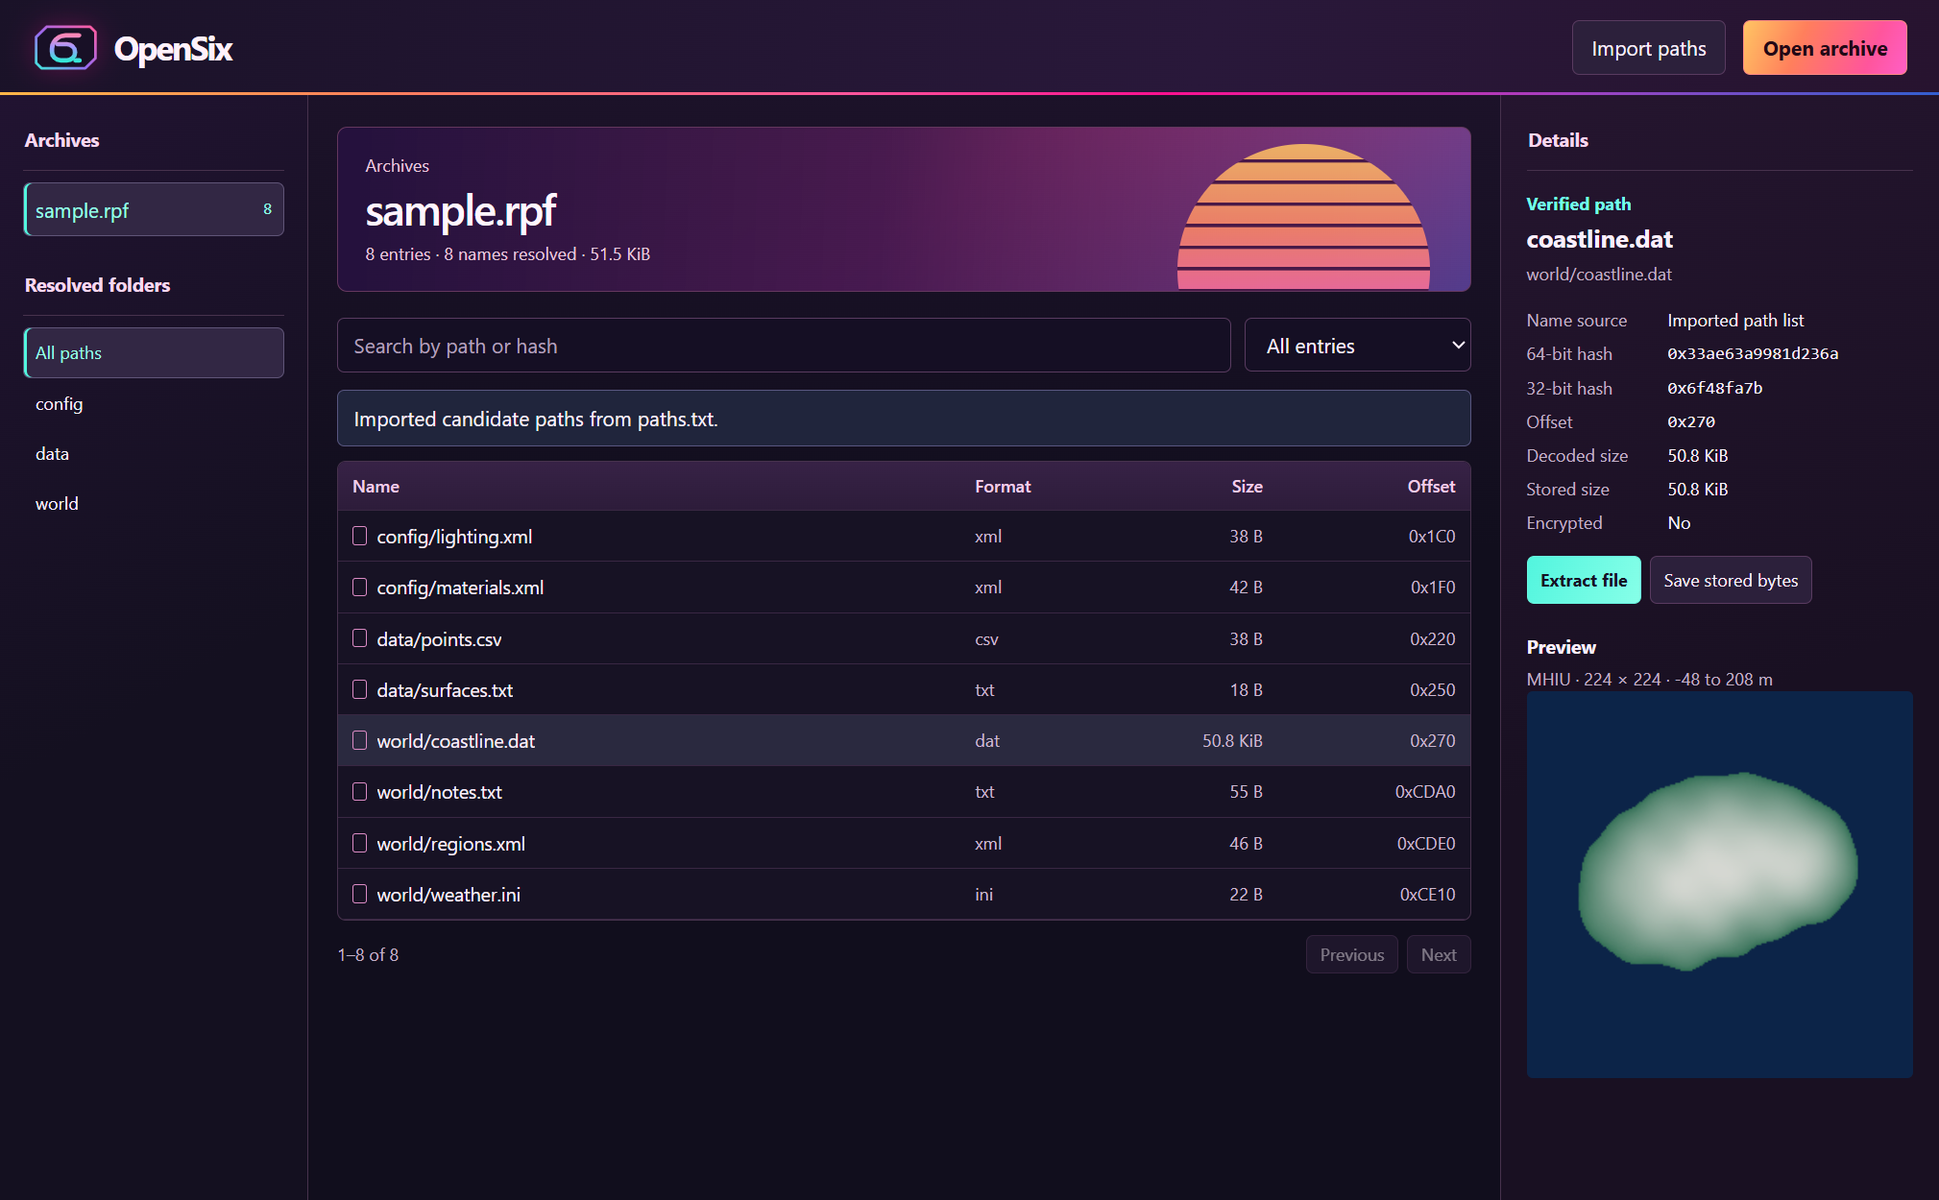
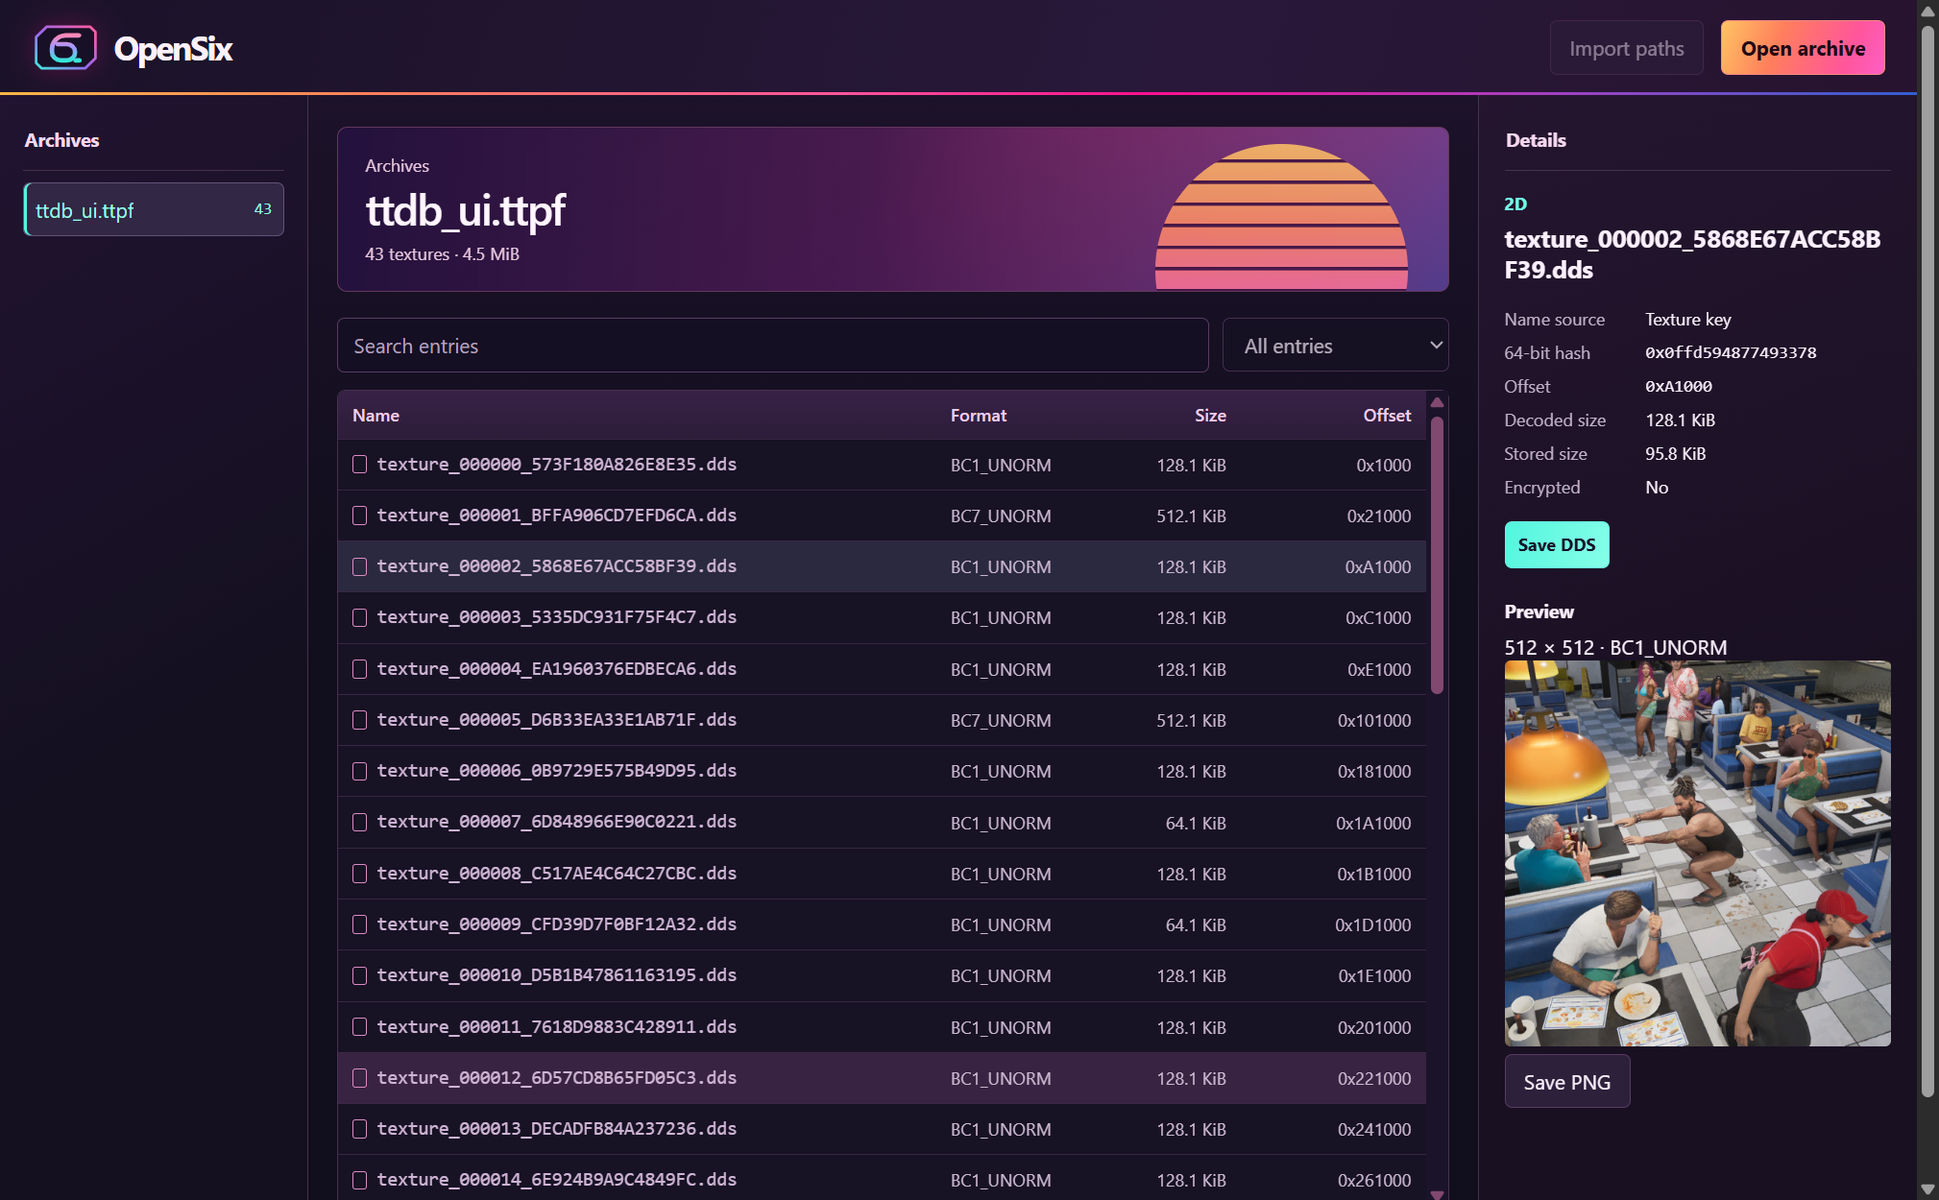
Document the OpenSix 1.0.0 portable release

diff --git a/README.md b/README.md
@@ -1,51 +1,47 @@
 <h1><img src="app/icon.svg" alt="" width="66" align="middle"> OpenSix</h1>
 
-OpenSix is a Windows desktop utility for browsing and extracting RPF9 archives from a supported Grand Theft Auto VI Scarlett development build. Open an archive, follow its nested archives, and inspect entries without launching the game. OpenSix opens archive files read-only.
+OpenSix is a portable Windows archive browser for GTA VI’s Scarlett build. Open an RPF9, follow its nested archives, and preview or extract assets without launching the game. OpenSix reads your files in place.
 
-![OpenSix showing the contents of a sample RPF9 archive and a heightmap preview](docs/images/archive-browser.png)
+**[Download OpenSix.exe for Windows x64](https://github.com/cyberpulse2077/OpenSix/releases/latest/download/OpenSix.exe)** · [How to use it](docs/usage.md) · [Supported formats](docs/compatibility.md)
 
-*Archive browser and heightmap viewer with a synthetic RPF9 sample.*
+![OpenSix decoding a diner scene from GTA VI’s UI texture pool](docs/images/archive-browser.png)
 
-## Archive browser
+## What it does
 
-- Open one RPF9 archive or scan a local folder for archives. Navigate into nested archives directly from the file list.
-- Search entries by path or hash. OpenSix looks for filenames in local files and accepts a plain-text path list. Entries without a verified name stay accessible by hash.
-- Extract a decoded file or save its stored bytes for inspection.
-- Preview supported drawable models, fragments, and drawable dictionaries in 3D, with GLB export. Browse supported texture dictionaries and export PNGs.
-- Play supported Opus and PCM audio bank streams and export tracks. Inspect text, hex, common image formats, and supported heightmaps alongside the archive directory.
-
-## Compatibility
-
-| Component | Current support |
-| --- | --- |
-| OpenSix | Windows x64 |
-| Game build | One known GTA VI build for Xbox Series X\|S (Scarlett). OpenSix checks the executable's SHA-256 before opening an archive. |
-| Archives | RPF9 and supported nested RPF9 entries. Archive replacement and repacking are unavailable. |
-| Models | Supported `.zdr` drawables, `.zft` fragments, and `.zdd` drawable dictionaries. Geometry and material coverage varies by asset. |
-| Textures | Supported `.ztd` texture dictionaries and mip levels. |
-| Audio | Recognized ADAT banks. Opus and PCM playback for supported streams. XMA2 export is available for supported streams. |
-
-Other builds, archive revisions, and resource variants require separate verification. Incomplete archives may fail to open. Any path names OpenSix cannot verify stay listed by hash. See the [compatibility notes](docs/compatibility.md) for the executable fingerprint and preview limits.
+- **Browse RPF9 archives.** Open a file or scan a folder, drill into nested archives, and see entry sizes, offsets, hashes, compression, and encryption details. OpenSix checks signed headers and rejects incomplete archives.
+- **Find entries by name, hash, or model label.** Import a text list of paths to resolve more names. Embedded model labels are searchable, and entries with an unresolved path are still available by hash.
+- **Extract files.** Save decoded data when the storage format is supported, or save the original stored bytes. Search and batch-extract from the command line with stable entry IDs and JSON Lines reports.
+- **Inspect models in 3D.** Orbit supported drawables, choose a dictionary member or fragment child, switch detail levels, and check which textures a material uses. Export GLB or binary FBX with the textures OpenSix can resolve. A textured GTA VI FBX has been checked in Blender with its geometry, UVs, and base-color texture intact.
+- **Inspect collision and animation.** View supported collision bounds in 3D and export them as GLB or FBX. Browse clip dictionaries and play, pause, or scrub a supported clip on a compatible rig.
+- **Assemble model parts.** Preview selected components together. Use a vehicle’s wheel bones to place wheel parts with front and rear scales, or resolve supported wardrobe kits from their catalog and open the corresponding drawables.
+- **Browse textures.** Preview texture dictionaries and open TTPF pools directly. Search texture keys, select mip levels and supported array slices, cube faces, or volume slices, save PNG previews, and export DDS mip chains. The built-in VIctory decoder extends BCPack coverage when its table file is available.
+- **Play audio and video.** Preview supported ADAT Opus and PCM streams, save music stems, and export XMA2 tracks. With FFmpeg, XMA2 can also play in the app. With the Bink player helper, play, pause, step through, or seek in supported Bink movies.
+- **Read resource metadata.** Inspect 0DRP structures and PSIN sections, save their reports as JSON, and preview text, hex, common images, WAV and Ogg audio, and supported MHIU heightmaps.
 
 ## Getting started
 
-This is a source release. Build OpenSix on Windows using the [build instructions](docs/build.md). Bring your own local archive and compatible executable files.
+1. Run `OpenSix.exe`. It opens as a desktop app and needs no installer.
+2. Select **Open archive** and choose the matching local Scarlett executable, then choose an RPF9 file or a folder. Use **Open texture pool** for a standalone TTPF.
+3. Select an entry to preview it, extract it, or open its nested archive.
 
-1. Start the desktop app and select **Open archive**.
-2. Browse to the matching Scarlett executable, then choose an RPF9 file or a folder of archives.
-3. Select an entry to inspect its metadata and preview. Use **Open nested archive** when the entry contains an archive.
-4. Choose **Extract file** to save decoded data. Choose **Save stored bytes** to keep the archive representation.
+Bring your own game files. OpenSix includes the VIctory decoder. To enable it for more textures, place its table file next to the EXE. The [usage guide](docs/usage.md) has the download link and explains how to add optional Bink and XMA2 playback.
 
-To match additional names, use **Import paths** with one candidate path per line. OpenSix checks candidates against the available archive hashes before displaying a resolved path.
+## Inside the texture viewer
 
-## Development
+The diner scene above and the “What the fuck is quinoa” image below are 512 × 512 textures decoded from GTA VI’s `ttdb_ui.ttpf` pool.
 
-See [Build OpenSix](docs/build.md) for the pinned decoder and Windows toolchain. [Contributing](CONTRIBUTING.md) describes what to include in a format or compatibility report.
+![OpenSix showing the “What the fuck is quinoa” texture decoded from GTA VI](docs/images/quinoa-preview.png)
 
-The native preview worker uses [SixNG](https://github.com/holdmysocks/SixNG). The desktop app uses [Electron](https://www.electronjs.org/) and [Three.js](https://threejs.org/). The archive workflow takes its cues from [OpenIV](https://openiv.com/).
+## Compatibility
 
-## Licensing
+OpenSix supports one GTA VI Xbox Series X|S (Scarlett) build. The [compatibility notes](docs/compatibility.md) give the executable fingerprint, supported formats, and known limits. Archives are read-only. Some names, models, materials, and storage formats are still unresolved.
 
-The [OpenSix Noncommercial License](LICENSE) allows you to build and use OpenSix as supplied for free for noncommercial purposes. Commercial use, modification, and paid redistribution require permission. SixNG and changes to it remain under [GPL-3.0-only](third_party/sixng/COPYING).
+## Source and credits
+
+See the [Windows build instructions](docs/build.md) and [contribution notes](CONTRIBUTING.md). The native tools use [SixNG](https://github.com/holdmysocks/SixNG), [rpf9-explorer](https://github.com/breadbbbb/rpf9-explorer), [VIctory](https://github.com/Marvisak/VIctory), and [Assimp](https://github.com/assimp/assimp). The app uses [Electron](https://www.electronjs.org/) and [Three.js](https://threejs.org/). The archive workflow takes its cues from [OpenIV](https://openiv.com/).
+
+## License
+
+I make the original OpenSix desktop app available for free noncommercial use under the [OpenSix Noncommercial License](LICENSE). Contact me for uses that need permission under those terms. The release includes the corresponding source for the GPLv3 preview and texture-pool components. See [component licenses](docs/build.md#component-licenses).
 
 OpenSix is an independent project. Grand Theft Auto and Rockstar Games are marks of their respective owners.

diff --git a/docs/compatibility.md b/docs/compatibility.md
@@ -1,24 +1,34 @@
 # Compatibility
 
-## Executable
+## Game build
 
-The current RPF9 reader expects one GTA VI Scarlett build. OpenSix checks the executable's file size and SHA-256 before reading its format tables. It reads the executable as data.
+OpenSix runs on Windows x64. Its RPF9 reader expects one GTA VI Scarlett build and checks the supplied executable before reading its format tables.
 
 | Property | Expected value |
 | --- | --- |
 | Size | 120,181,760 bytes |
[1 lines of base64/hex data omitted]
 
-To check a local copy in PowerShell, run `Get-FileHash -Algorithm SHA256 -LiteralPath '<path to executable>'`. Use the executable that belongs with the archives you are opening.
+Check a local copy with `Get-FileHash -Algorithm SHA256 -LiteralPath '<path to executable>'`. Use the executable that belongs with the archives.
 
-## Archive and preview limits
+## Formats
 
-- Archive mounting checks the directory, entry bounds, expected minimum size for known archives, and allocated ranges when Windows reports them. A directory with missing payload bytes is insufficient.
-- Filename matching uses available local path references and user-supplied candidates. The original name of every entry may not be recoverable. Hashes remain visible in the entry details and are searchable in the file list.
-- The 3D viewer handles supported drawable resource variants, including supported LODs and some dictionary members. Material and texture coverage varies. Some drawable variants fail to produce renderable geometry.
-- Supported `.zbn` collision bounds can be viewed in 3D and exported to GLB. `.zbd` variants still need sample coverage.
-- Model previews can be exported as GLB or binary FBX. FBX embeds textures available in the preview and uses FBX material properties.
-- Texture dictionaries expose supported textures and mip levels. Some descriptors and encodings cannot be decoded.
-- Supported Opus and PCM streams play in the app. XMA2 has raw track export. Audio support varies by bank layout and codec.
-- Some entries can only be saved as stored bytes when their compression or cipher is unsupported.
-- The screenshot uses a generated RPF9 archive with synthetic data.
+| Resource | What you can do |
+| --- | --- |
+| RPF9 | Open complete archives and directly stored nested archives, verify supported signed headers, extract decoded data, or save stored bytes. |
+| `.zdr`, `.zft`, `.zdd` | View supported models, fragment children, dictionary members, materials, and detail levels. Export GLB or binary FBX. |
+| `.zbn`, `.zbd` | Preview supported collision bounds and export the geometry. Coverage varies by bounds type. |
+| `.zcd` | Inspect clip dictionaries, save JSON, and play supported clips on a compatible rig. |
+| `.ztd`, `.ttpf` | Browse textures and mips, save PNG, and export DDS from supported TTPF layouts. VIctory provides additional BC5, BC6H, and BC7 coverage with its table file. |
+| ADAT banks | Play and export supported Opus and PCM streams and music stems. Export XMA2 tracks or play them with FFmpeg. |
+| Bink / Bink 2 | Play and seek in supported movies with the local helper. |
+| 0DRP v122 and PSIN | Inspect structure and section information and save JSON reports. |
+| MHIU, PNG, JPEG, GIF, WebP, WAV, Ogg | Preview supported heightmaps, images, and audio inside an archive. |
+
+## Known limits
+
+- OpenSix reads archives in place. Archive editing, replacement, and repacking are outside the current feature set.
+- Paths are verified against the archive hashes. Two names in the local `common.rpf` audit, slots 243 and 316, remain unresolved. Their heightmap payloads can still be previewed and extracted.
+- Texture and material coverage varies by asset. Some variants have no renderable preview, and some TTPF layouts expose a reduced mip chain.
+- Model assembly uses the parts and texture sources you open. Wheel placement and wardrobe albedo and normal overrides are supported where the data can be resolved. Wardrobe palettes and some authored materials still need more coverage.
+- Supported XMA2 and Bink playback need their local helpers. The [usage guide](usage.md) lists the files and where to put them.

diff --git a/docs/usage.md b/docs/usage.md
@@ -1,0 +1,44 @@
+# Using OpenSix
+
+Download [OpenSix.exe](https://github.com/cyberpulse2077/OpenSix/releases/latest/download/OpenSix.exe) and run it on Windows x64. Choose the executable and archive from the supported Scarlett build. OpenSix reads the executable to get the archive format tables, and the game stays closed.
+
+## Archives and filenames
+
+**Open archive** takes an RPF9 file or a local folder. Select an archive in the sidebar, then select an entry to see its size, offset, hashes, and available preview. Use **Open nested archive** to go deeper. OpenSix rejects incomplete archives.
+
+Use **Import paths** with one candidate path per line. A matching path appears as a verified name. Use **Index model labels** to make the drawable names stored inside models searchable. A model label can describe the asset even when its original archive path is unknown.
+
+**Extract file** saves decoded data. **Save stored bytes** keeps the entry as it was stored in the archive.
+
+## Models and animation
+
+Open a drawable, fragment, or dictionary, then choose a drawable and detail level when the asset offers them. Drag to orbit and scroll to zoom. **Material and texture sources** shows the resolved texture references and any gaps. Save GLB or FBX from the preview.
+
+For animation, open a clip dictionary and select **Use clip on a model**. Open a model with compatible bones and use the playback controls to inspect the motion. The preview reports how many bone tracks it mapped.
+
+To combine parts, add each model in **Model assembly** and choose **Preview assembly**. For wheels, add the vehicle body first. Enter front and rear scales and add each wheel component. Open a supported wardrobe catalog and choose **Assemble wardrobe kit** when its drawable archives are open. The kit’s JSON report includes its texture and palette references.
+
+## TTPF texture pools
+
+Select **Open texture pool** and choose a complete `.ttpf` file. Search by key, format, or name. Choose a mip and, for supported layouts, an array slice, cube face, or volume slice. **Save DDS** keeps the chain starting at the first available source mip. When you preview a lower mip, **Save DDS from mip** exports the chain starting there. A PNG export saves the displayed image.
+
+![OpenSix decoding a car wash image from the GTA VI UI texture pool](images/car-wash-preview.png)
+
+The portable EXE includes VIctory’s BCPack decoder. To use it on more textures, [download the matching table file](https://github.com/Marvisak/VIctory/raw/d2a4bae1f49533ef5cb512fd1b1ba1513f2e1989/crates/victory-formats/src/bcpack-tables.bin), save it as `bcpack-tables.bin` beside `OpenSix.exe`, and open the pool as usual. OpenSix picks up the file automatically. When a source mip is unavailable, OpenSix can preview a lower mip it can verify.
+
+## Audio and video
+
+Select a track in a supported audio bank to listen or save it. Opus, PCM, and music stems play in the app. XMA2 can be saved as a track. For XMA2 playback, make [FFmpeg](https://ffmpeg.org/) available on `PATH` or set `OPENSIX_FFMPEG` to its absolute path.
+
+For supported Bink movies, use the `Tools/bink-player.exe` from the [rpf9-explorer v1.3 release](https://github.com/breadbbbb/rpf9-explorer/releases/tag/v1.3). Place it beside OpenSix.exe or set `OPENSIX_BINK_PLAYER` to its absolute path. OpenSix checks that it has the expected helper before starting playback.
+
+## Batch workflows
+
+Use `--report` with a new local file to get JSON Lines from the portable executable. Search gives you the entry ID to use for an export. `--recursive` includes nested archives, `--labels` indexes embedded model labels, and `--names` imports a path list. Leave out `--exe` for a TTPF.
+
+```powershell
+.\OpenSix.exe --cli search 'C:\Game\data.rpf' --exe 'C:\Game\game_scarlett_master.exe' --recursive --query zft --report 'C:\Exports\search.jsonl'
+.\OpenSix.exe --cli export 'C:\Game\data.rpf' --exe 'C:\Game\game_scarlett_master.exe' --recursive --id '<entry-id>' --out 'C:\Exports\Models' --report 'C:\Exports\export.jsonl'
+```
+
+Add `--stored` to export the stored representation of an archive entry. Pass `--id` more than once to extract a batch.

diff --git a/docs/build.md b/docs/build.md
@@ -25,14 +25,18 @@ The build checks out the pinned SixNG revision under `.deps/sixng`, applies the 
 
 The texture-pool worker uses the pinned rpf9-explorer checkout under `.deps/rpf9-explorer`. The build publishes it as a self-contained Windows executable.
 
-The BCPack fallback builds the GPLv3 decoder from the pinned VIctory checkout at `d2a4bae1f49533ef5cb512fd1b1ba1513f2e1989`. OpenSix checks the revision's BCPack table file before using it. Source runs read the file from the checkout. Portable runs can read it alongside `OpenSix.exe` or from the absolute path in `OPENSIX_BCPACK_TABLES`. The upstream project's asset policy identifies the table file as outside its code license, so the build includes the decoder and its license and loads the table separately.
+The texture-pool worker loads a BCPack library built from VIctory revision `d2a4bae1f49533ef5cb512fd1b1ba1513f2e1989`. The portable EXE includes this library and opens it automatically. A source checkout can supply the verified BCPack table file. A portable build reads the table file from beside `OpenSix.exe` or from the absolute path in `OPENSIX_BCPACK_TABLES`. The table file has its own terms. See [VIctory's asset policy](https://github.com/Marvisak/VIctory/blob/d2a4bae1f49533ef5cb512fd1b1ba1513f2e1989/docs/asset-policy.md).
 
 Use `node app/cli.mjs --help` for JSON Lines archive search and batch extraction from a source checkout.
 Use `OpenSix.exe --cli search` with `--report` and an absolute path to a new output file when running from the portable launcher.
 
 To play XMA2 streams, make FFmpeg available on `PATH` or set `OPENSIX_FFMPEG` to its absolute path. To preview Bink movies, place `Tools/bink-player.exe` from rpf9-explorer v1.3 next to the portable OpenSix executable or set `OPENSIX_BINK_PLAYER` to its absolute path. OpenSix verifies the helper's SHA-256. Bink preview frames are streamed through memory.
 
-To build a portable Windows executable locally, run the script with `-Portable`. The result is `app/release/OpenSix.exe`. Local builds are unsigned by default and are separate from the project's release artifacts.
+To build a portable Windows executable locally, run the script with `-Portable`. The result is `app/release/OpenSix.exe`. The build is unsigned unless a signing configuration is supplied.
+
+## Component licenses
+
+The [OpenSix license](../LICENSE) covers the original desktop app under its noncommercial terms. The bundled SixNG preview worker and texture-pool worker with the VIctory BCPack library are GPL-3.0-only. Their corresponding source is available alongside the executable on the release page. See the [SixNG source notes](../third_party/sixng/README.md) and [rpf9-explorer notices](../third_party/rpf9-explorer/NOTICE.md).
 
 ## Project layout
 
@@ -40,6 +44,7 @@ To build a portable Windows executable locally, run the script with `-Portable`.
 | --- | --- |
 | `app/` | Desktop window, archive reader, path index, and viewers |
 | `native/preview/` | Rust worker for model, texture, and audio previews |
+| `native/bcpack/` | VIctory BCPack library loaded by the texture-pool worker |
 | `native/fbx/` | Windows GLB-to-FBX converter with embedded textures |
 | `native/texture-pools/` | Self-contained TTPF and wardrobe catalog reader |
 | `third_party/sixng/` | Local SixNG changes and upstream license |
